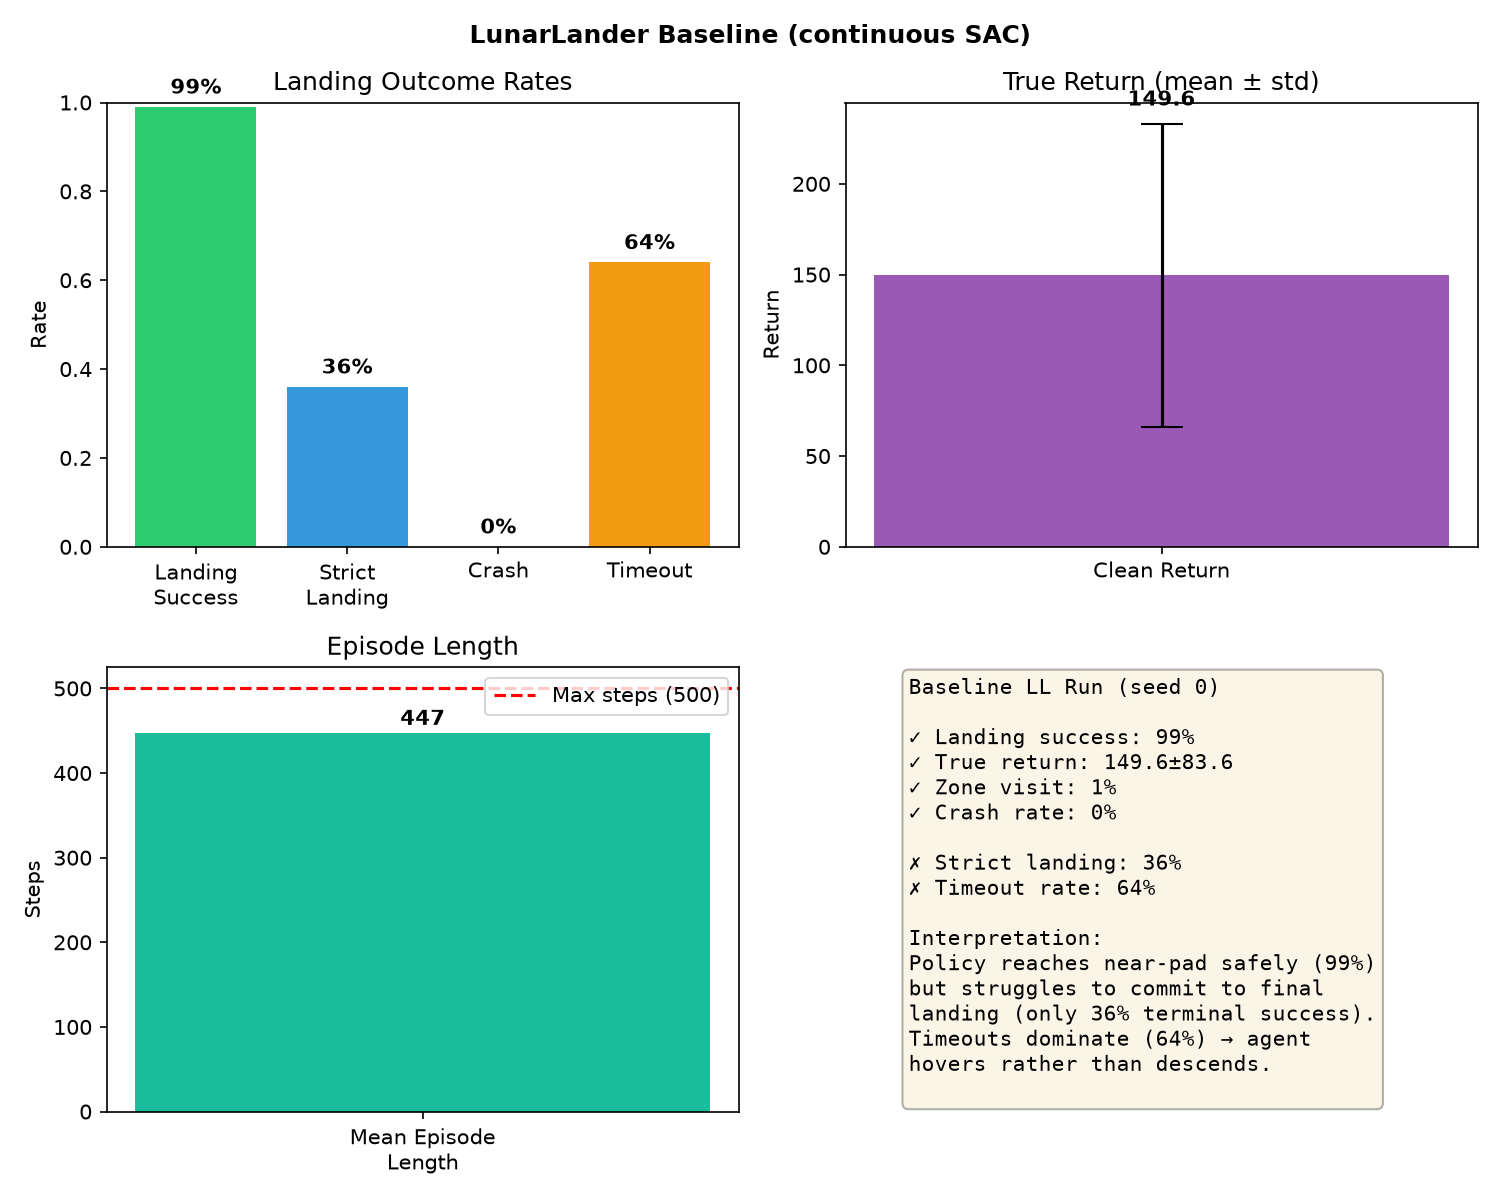
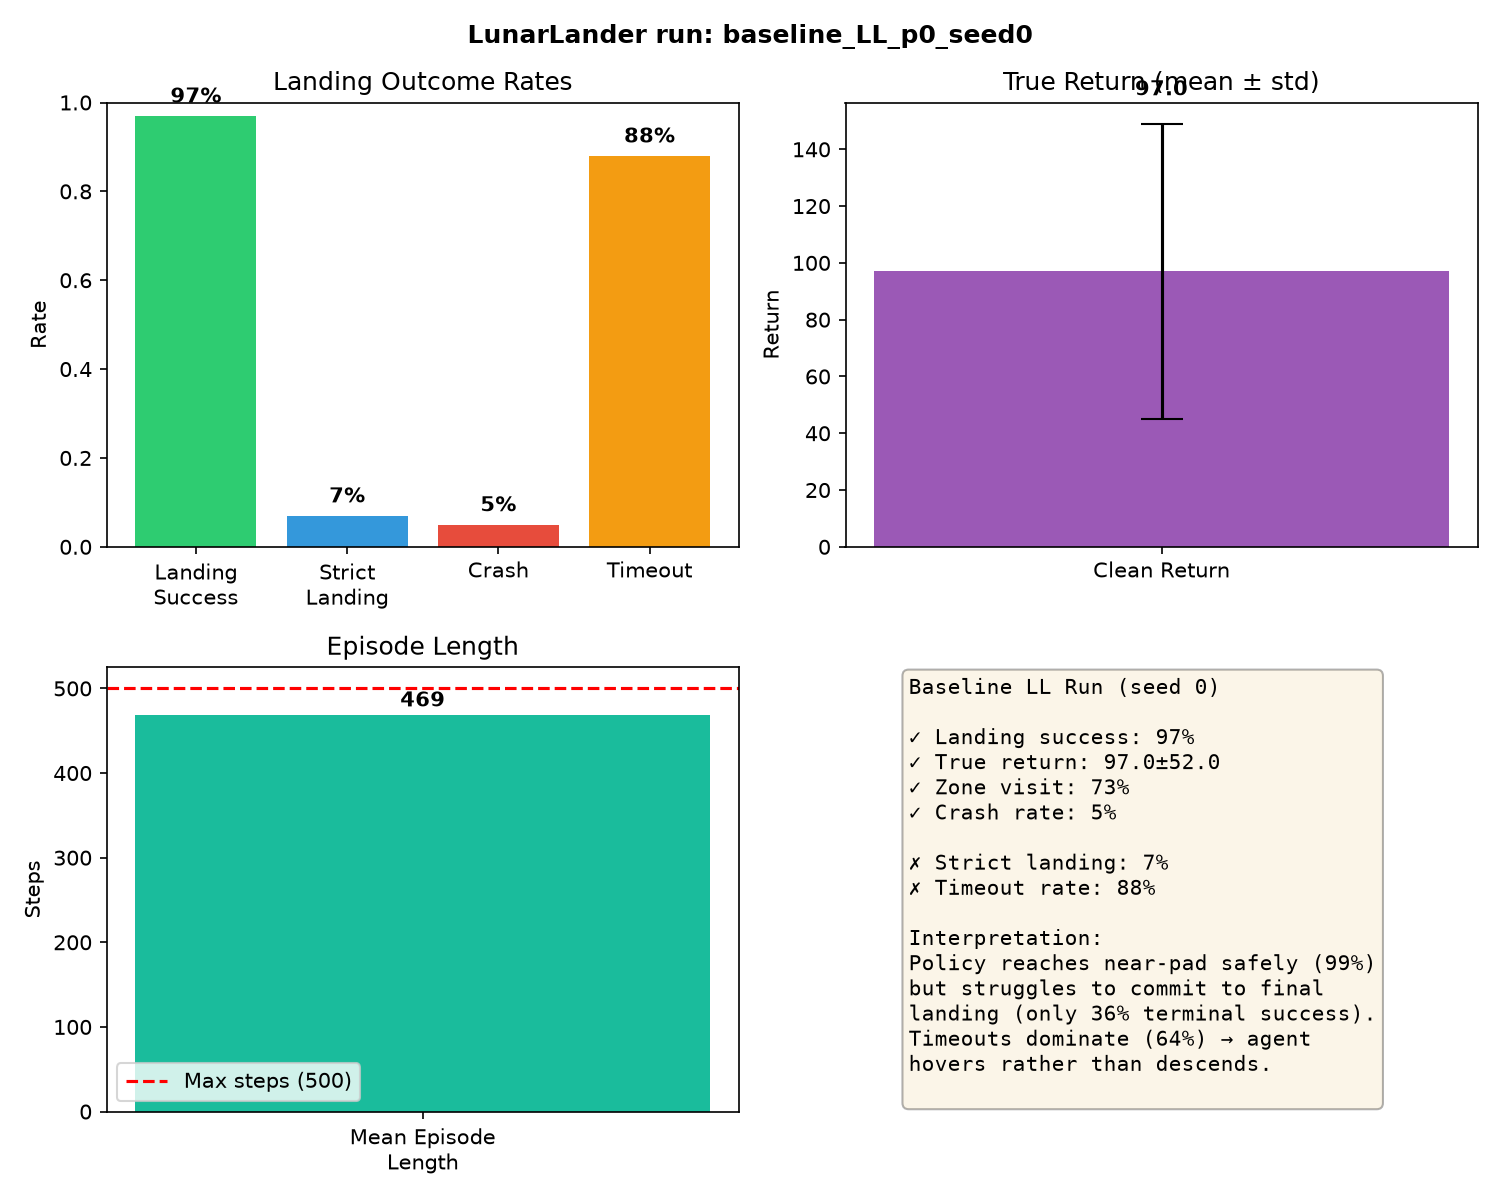
update run identifiers in scripts and README for clarity

diff --git a/scripts/plot_ll_run.py b/scripts/plot_ll_run.py
@@ -1,5 +1,11 @@
 #!/usr/bin/env python3
-"""Plot LunarLander run metrics as a visual summary."""
+"""Plot LunarLander run metrics as a visual summary.
+
+Example:
+    python scripts/plot_ll_run.py --run runs/baseline_LL_p0_seed0
+    python scripts/plot_ll_run.py --run runs/lagr_LL_epsilon0.05_seed0
+"""
+import argparse
 import json
 from pathlib import Path
 
@@ -9,7 +15,14 @@ import matplotlib.pyplot as plt
 
 
 def main():
-    metrics_path = Path("runs/baseline_LL_seed0/metrics.json")
+    ap = argparse.ArgumentParser(description="Plot a LunarLander run summary from a metrics.json file.")
+    ap.add_argument("--run", type=Path, default=Path("runs/baseline_LL_p0_seed0"), help="run directory containing metrics.json")
+    ap.add_argument("--out", type=Path, default=Path("figures/ll_run_metrics.png"), help="output image path")
+    args = ap.parse_args()
+
+    metrics_path = args.run / "metrics.json"
+    if not metrics_path.exists():
+        raise FileNotFoundError(f"Missing metrics.json at {metrics_path}")
     with open(metrics_path) as f:
         m = json.load(f)
 
@@ -75,10 +88,11 @@ def main():
         bbox=dict(boxstyle="round", facecolor="wheat", alpha=0.3),
     )
 
-    fig.suptitle("LunarLander Baseline (continuous SAC)", fontsize=12, fontweight="bold")
+    fig.suptitle(f"LunarLander run: {args.run.name}", fontsize=12, fontweight="bold")
     fig.tight_layout()
-    fig.savefig("figures/ll_run_metrics.png", dpi=150)
-    print("wrote figures/ll_run_metrics.png")
+    args.out.parent.mkdir(parents=True, exist_ok=True)
+    fig.savefig(args.out, dpi=150)
+    print(f"wrote {args.out}")
 
 
 if __name__ == "__main__":

diff --git a/scripts/compare_ll_runs.py b/scripts/compare_ll_runs.py
@@ -3,7 +3,7 @@
 
 Usage:
     # Compare two specific runs
-    python scripts/compare_ll_runs.py --runs baseline_LL_seed0 lagr_LL_seed0
+    python scripts/compare_ll_runs.py --runs baseline_LL_p0.0_seed0 lagr_LL_epsilon0.05_seed0
 
     # Aggregate all seeds for each method
     python scripts/compare_ll_runs.py --runs baseline_LL_* lagr_LL_* --aggregate
@@ -251,7 +251,7 @@ def compare_runs(runs_data: dict[str, dict], out_path: str = "figures/ll_run_com
 
 def main():
     ap = argparse.ArgumentParser(description=__doc__, formatter_class=argparse.RawDescriptionHelpFormatter)
-    ap.add_argument("--runs", nargs="+", required=True, help="run directories to compare (e.g., baseline_LL_seed0 lagr_LL_seed0)")
+    ap.add_argument("--runs", nargs="+", required=True, help="run directories to compare (e.g., baseline_LL_p0.0_seed0 lagr_LL_epsilon0.05_seed0)")
     ap.add_argument("--aggregate", action="store_true", help="aggregate by method name across seeds")
     ap.add_argument("--out", default="figures/ll_run_comparison.png", help="output path for the visualization")
     args = ap.parse_args()

diff --git a/run.py b/run.py
@@ -43,7 +43,11 @@ def main():
     cfg["seed"] = args.seed
     total_steps = args.steps or cfg["agent"].get("total_steps", 150_000)
 
-    run_id = cfg.get("run_id") or f"{cfg['method']}_{cfg['env']['id']}_seed{args.seed}"
+    if cfg.get("run_id"):
+        run_id = cfg["run_id"]
+    else:
+        knob = _knob(cfg)
+        run_id = f"{cfg['method']}_{cfg['env']['id']}_{knob['knob']}{knob['value']}_seed{args.seed}"
     out = Path(args.out) / run_id
     out.mkdir(parents=True, exist_ok=True)
     # write the resolved config up front: a full run is ~30 min, so an interrupted

diff --git a/README_RUN_LL.md b/README_RUN_LL.md
@@ -58,12 +58,12 @@ python run.py configs/baseline_LL.yaml --seed 0
 ```
 
 This writes a run directory like:
-- `runs/baseline_LL_seed0/`
+- `runs/baseline_LL_p2_seed0/`
 
 Key outputs:
-- `runs/baseline_LL_seed0/config.yaml`
-- `runs/baseline_LL_seed0/metrics.json`
-- `runs/baseline_LL_seed0/policy.zip`
+- `runs/baseline_LL_p2_seed0/config.yaml`
+- `runs/baseline_LL_p2_seed0/metrics.json`
+- `runs/baseline_LL_p2_seed0/policy.zip`
 
 ## 4. Run the Lagrangian variant
 ```bash
@@ -71,10 +71,10 @@ python run.py configs/lagr_LL.yaml --seed 0
 ```
 
 This writes:
-- `runs/lagr_LL_seed0/`
+- `runs/lagr_LL_epsilon0.05_seed0/`
 
 Additional output for the Lagrangian method:
-- `runs/lagr_LL_seed0/alpha.csv`
+- `runs/lagr_LL_epsilon0.05_seed0/alpha.csv`
 
 ## 5. Plot a single LL run summary
 ```bash
@@ -82,7 +82,7 @@ python scripts/plot_ll_run.py
 ```
 
 This reads:
-- `runs/baseline_LL_seed0/metrics.json`
+- `runs/baseline_LL_p2_seed0/metrics.json`
 
 and writes:
 - `figures/ll_run_metrics.png`
